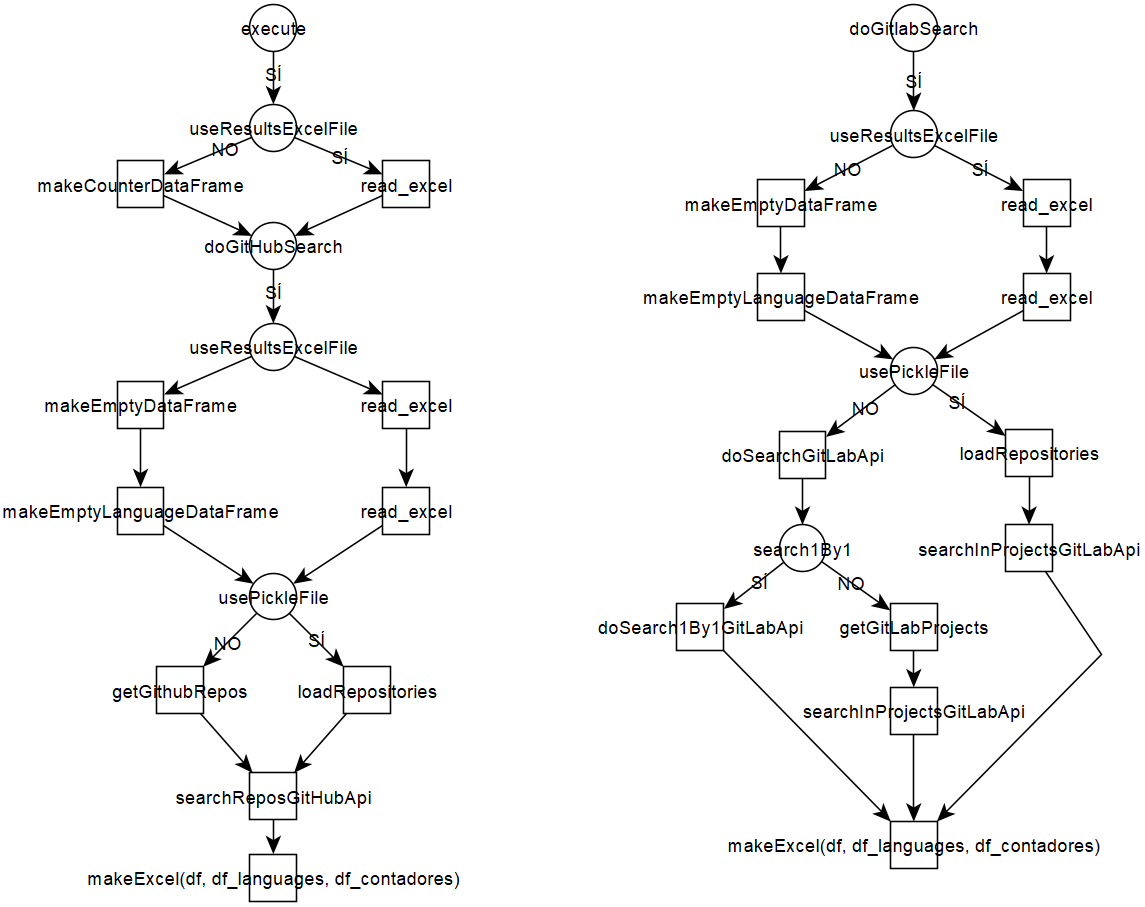
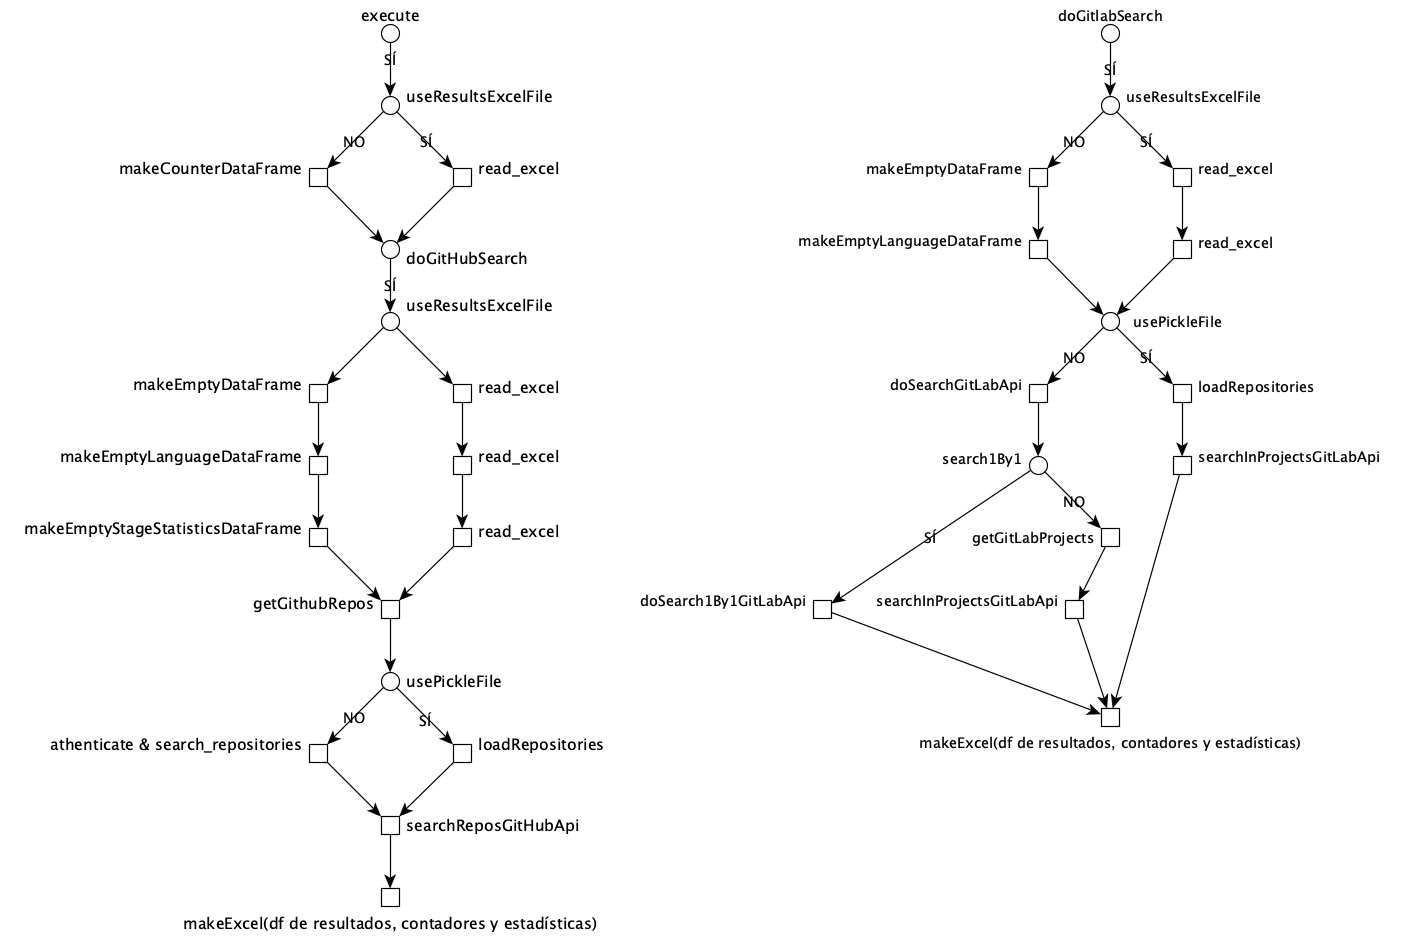
Arreglos en el diagrama de flujo de ejecución

diff --git a/pages/descripcionInformatica.tex b/pages/descripcionInformatica.tex
@@ -113,8 +113,14 @@ A modo de resumen, se expone a continuación el flujo de ejecución del programa
 
 \begin{figure}[h]
     \centering
-    \includegraphics[width=1\textwidth,clip=true]{\flujoEjecucion}
-    \caption{Flujo de ejecución.}
+    \includegraphics[width=1\textwidth,clip=true]{\flujoGitHub}
+    \caption{Flujo de ejecución GitHub.}
+\end{figure}
+
+\begin{figure}[h]
+    \centering
+    \includegraphics[width=1\textwidth,clip=true]{\flujoGitLab}
+    \caption{Flujo de ejecución GitLab.}
 \end{figure}
 
 \section{Dificultades y problemas encontrados}

diff --git a/tfg.tex b/tfg.tex
@@ -72,6 +72,8 @@
 \newcommand{\curso}{Curso 2021-2022}
 \newcommand{\logoUniversidad}{logoURJC.pdf} % logoURJC.eps
 \newcommand{\flujoEjecucion}{diagram.PNG}
+\newcommand{\flujoGitHub}{github_diagram.PNG}
+\newcommand{\flujoGitLab}{gitlab_diagram.PNG}
 
 %%%%%%%%%%%%%%%%%%%%%%%%%%%%%%%%%%%%%%%%%%%%%%%%%%%%%%%%%%%%%%%%%%%%
 
